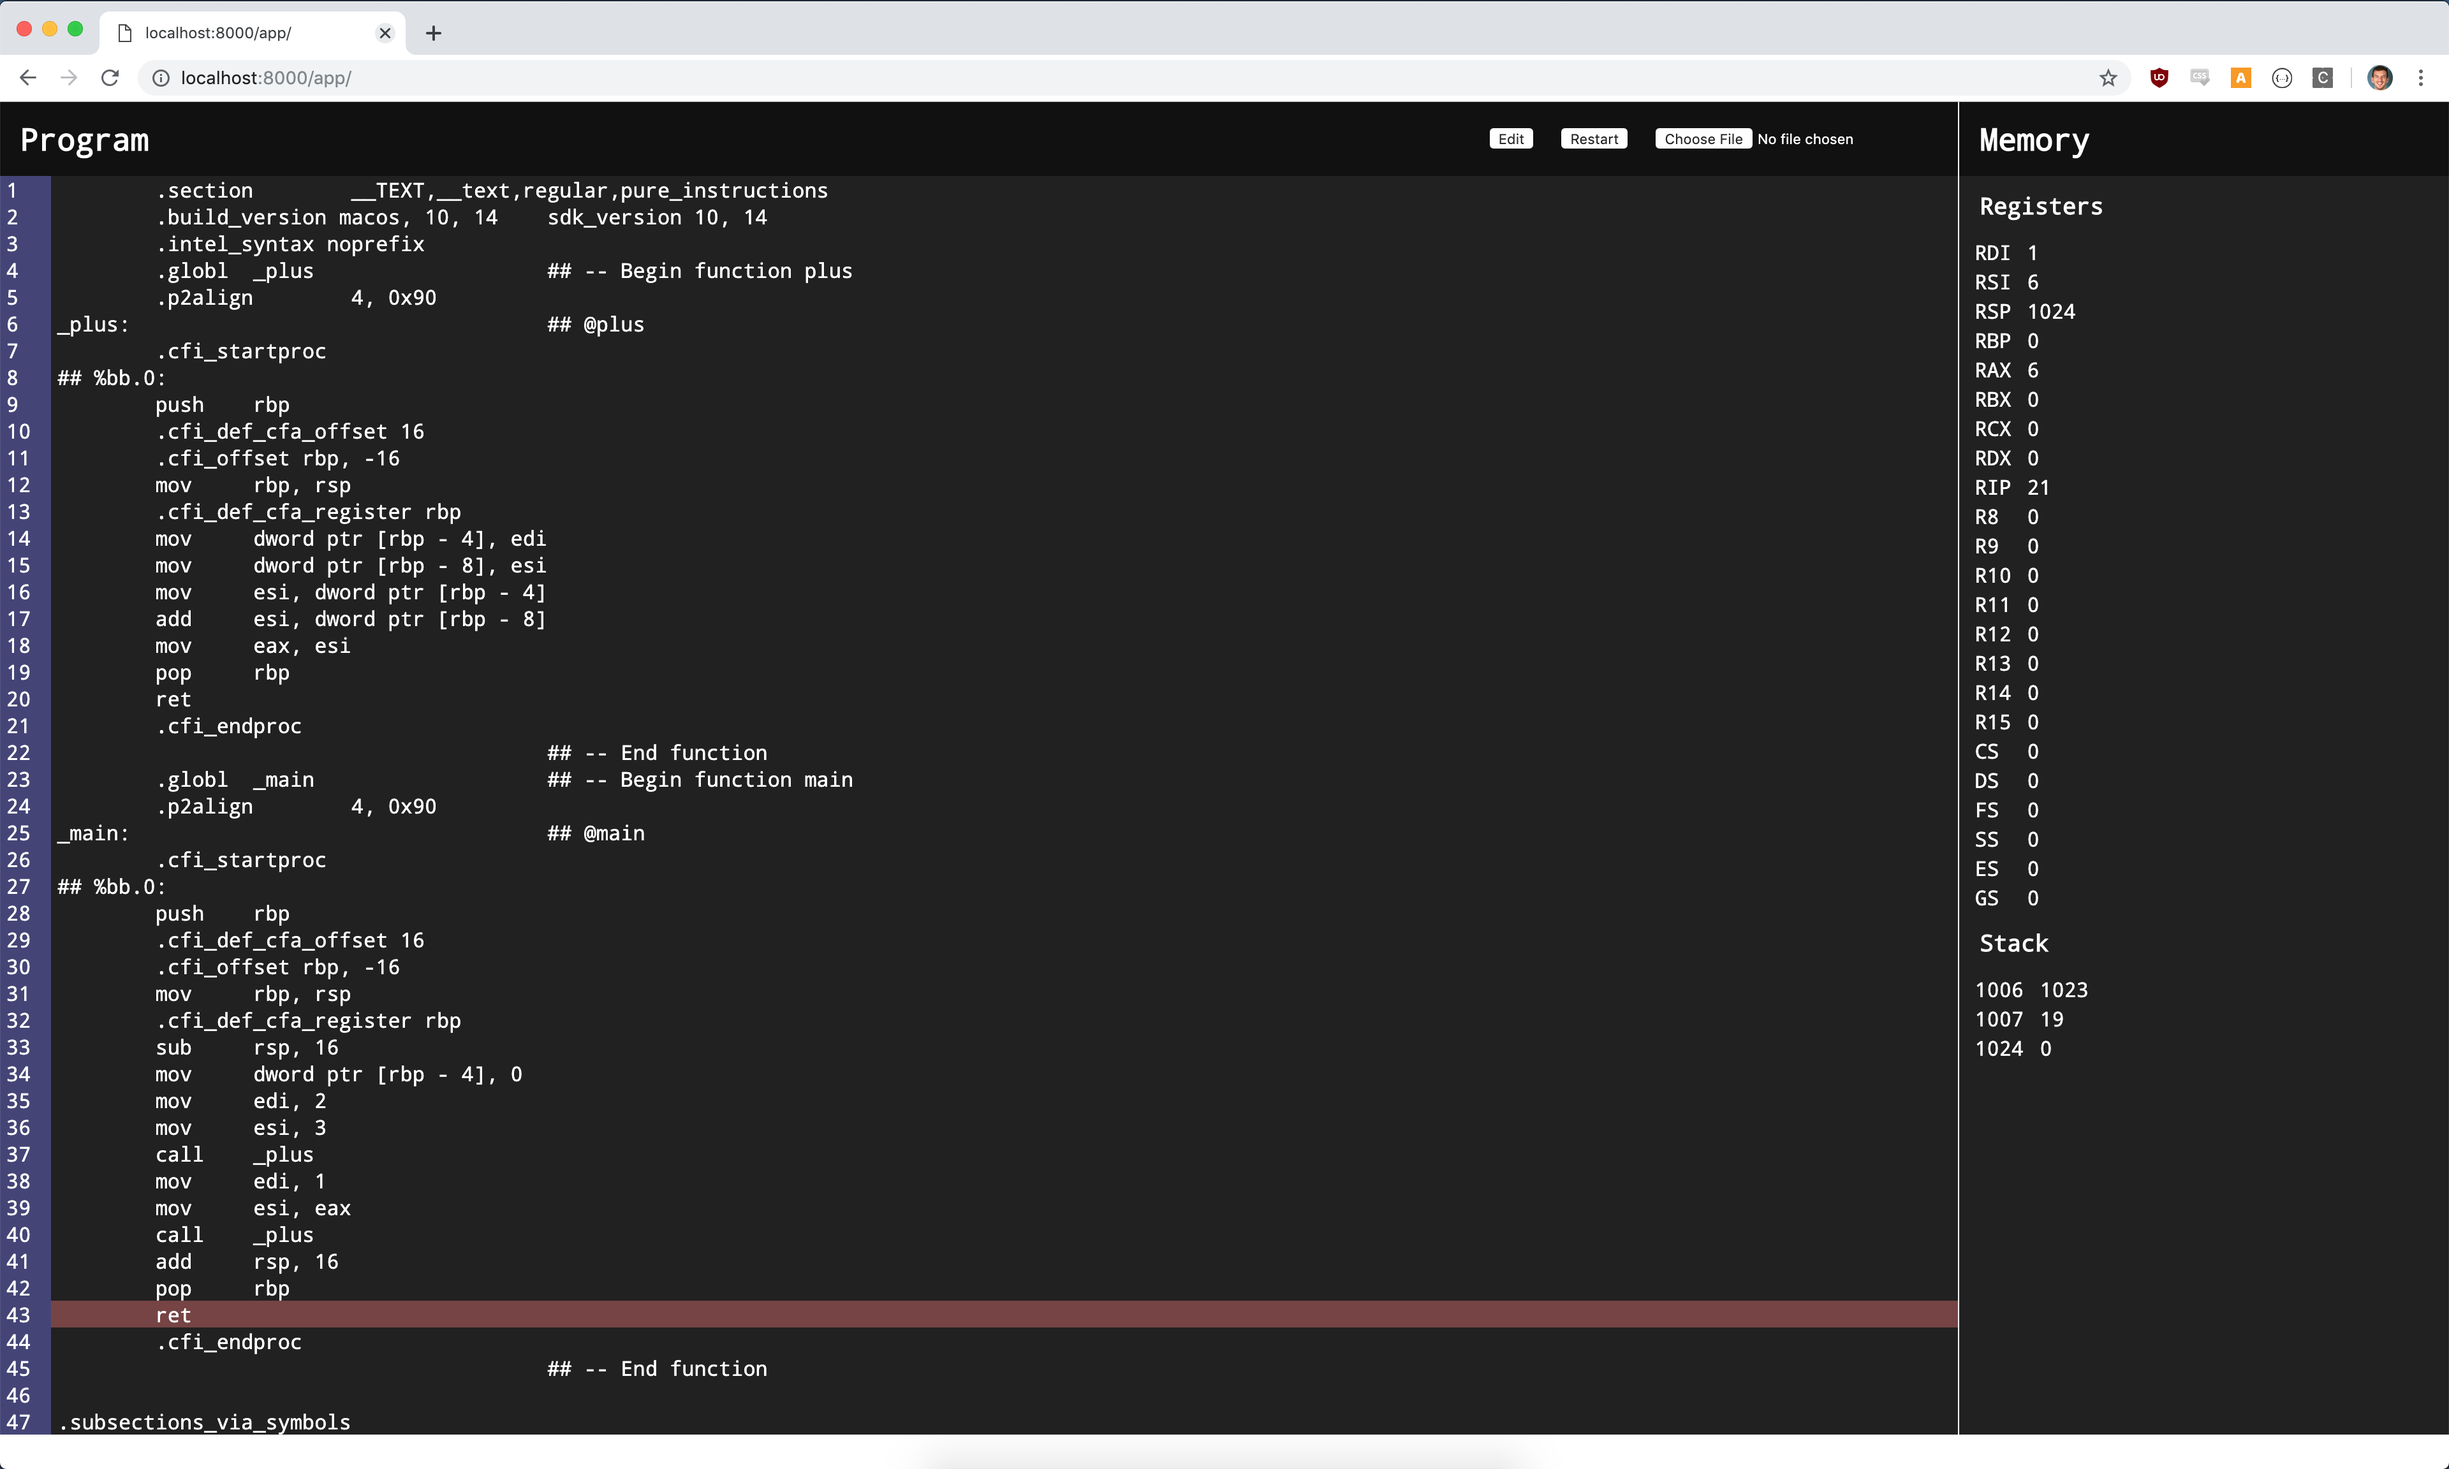
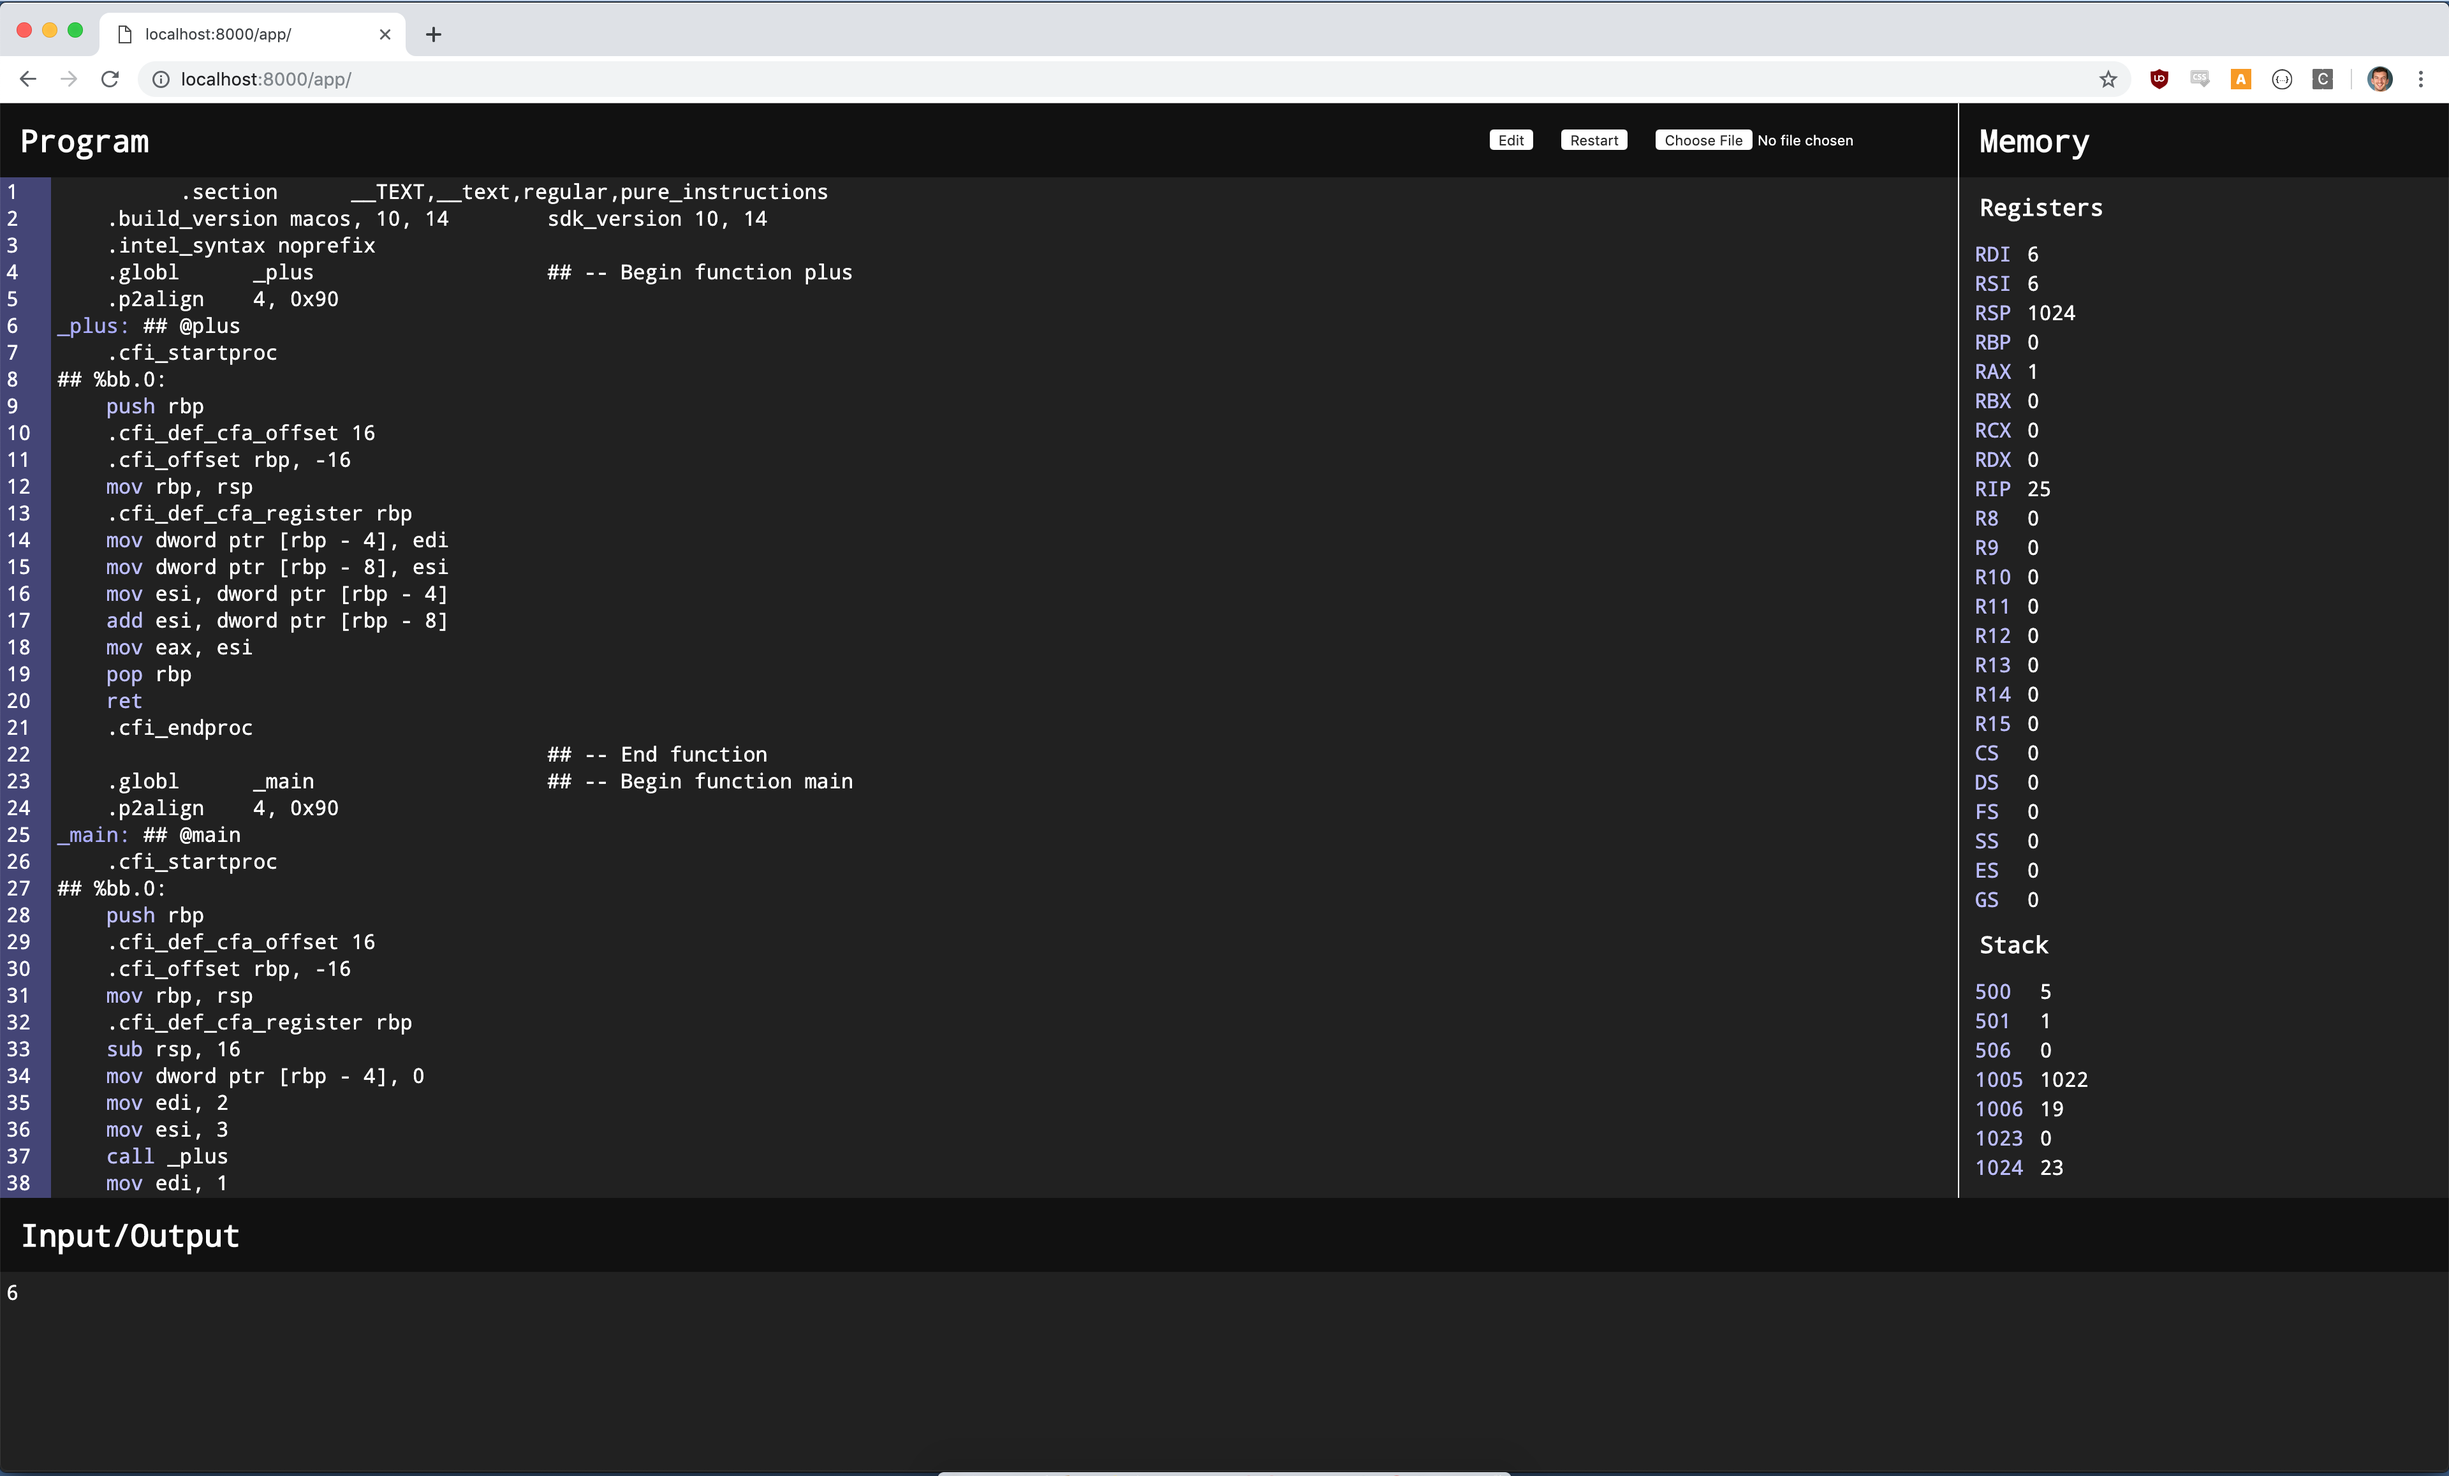
Add exit/output support to app

diff --git a/app/app.js b/app/app.js
@@ -1,3 +1,10 @@
+const START_STUB = `_start:
+	CALL _main
+
+	MOV RDI, RAX
+	MOV RAX, 1
+	SYSCALL`;
+
 const DEFAULT_PROGRAM = `      	.section	__TEXT,__text,regular,pure_instructions
 	.build_version macos, 10, 14	sdk_version 10, 14
 	.intel_syntax noprefix
@@ -46,15 +53,43 @@ _main:                                  ## @main
 
 .subsections_via_symbols`;
 
+function isInstruction(line) {
+  const t = line.trim();
+  return !(t.startsWith('#') || t.includes(':') || t.startsWith('.') || !t.length);
+}
+
 function CodeLine({ active, line, number }) {
+  if (isInstruction(line)) {
+    const { instruction, args } = parseInstruction(line);
+    return (
+      <div className={`CodeLine ${active ? 'CodeLine--active' : ''}`} id={number}>
+	<a href={`#${number}`} className="CodeLine-number">{number}</a>
+	<div className="CodeLine-line">
+	  &nbsp;&nbsp;&nbsp;&nbsp;<span className="code-builtin">{instruction}</span>{' '}
+          {args.map((arg, i) => <React.Fragment><span className="code-value">{arg}</span>{i === args.length - 1 ? '' : ', '}</React.Fragment>)}
+	</div>
+      </div>
+    );
+  }
+
+  if (line.includes(':') && !line.trim().startsWith('#')) {
+    const [label, ...rest] = line.split(':');
+    return (
+      <div className={`CodeLine ${active ? 'CodeLine--active' : ''}`}>
+	<div className="CodeLine-number">{number}</div>
+	<div className="CodeLine-line">
+	  <span className="code-function">{label}:</span>{rest.join(':')}
+	</div>
+      </div>
+    );
+  }
+
   return (
     <div className={`CodeLine ${active ? 'CodeLine--active' : ''}`}>
       <div className="CodeLine-number">{number}</div>
-      <div className="CodeLine-line">
-	<pre>{line}</pre>
-      </div>
+      <pre className="CodeLine-line">{line.replace('\t', '    ')}</pre>
     </div>
-  )
+  );
 }
 
 function Code({ activeLine, code, editing, setCode, setEditing }) {
@@ -74,6 +109,11 @@ function Code({ activeLine, code, editing, setCode, setEditing }) {
       if (e.key === 'Escape') {
 	setEditing(false);
 	return;
+      }
+
+      if (e.key === 'Enter') {
+	setCode(c => c + '\n');
+	setCursor(c => c + 1);
       }
 
       if (e.key === 'Backspace') {
@@ -111,8 +151,12 @@ function ripRealPosition(lines, rip) {
   while (true) {
     realPosition++;
 
-    const line = lines[realPosition].trim();
-    if (line.startsWith('#') || line.includes(':') || line.startsWith('.') || !line.length) {
+    if (realPosition === lines.length) {
+      return 0;
+    }
+
+    const line = lines[realPosition];
+    if (!isInstruction(line)) {
       continue;
     }
 
@@ -130,6 +174,7 @@ function App({ defaultProgram }) {
   const [resetCount, reset] = React.useState(0);
   const [code, setCode] = React.useState(defaultProgram);
   const [editing, setEditing] = React.useState(false);
+  const [output, setOutput] = React.useState('');
   const lines = code.split('\n');
 
   const ticks = React.useRef([]);
@@ -140,15 +185,27 @@ function App({ defaultProgram }) {
 
     ticks.current.pop();
   }
-  clock.onTick = () =>
-    setActiveLine(ripRealPosition(lines, process.registers.rip));
+  clock.onTick = () => {
+    const line = ripRealPosition(lines, process.registers.rip);
+    setActiveLine(line);
+    document.getElementById(line);
+  };
 
   const [activeLine, setActiveLine] = React.useState(0);
   const { process } = React.useMemo(() => {
     const res = run(code, clock);
-    setActiveLine(ripRealPosition(lines, res.process.registers.rip));
+    const line = ripRealPosition(lines, res.process.registers.rip);
+    setActiveLine(line);
+    document.getElementById(line);
     return res;
   }, [code, resetCount]);
+
+  process.exit = (result) => {
+    setOutput(p => p + result)
+  };
+  if (!process.labels._start) {
+    setCode(c => c + '\n' + START_STUB);
+  }
 
   React.useEffect(() => {
     function handler (e) {
@@ -156,6 +213,8 @@ function App({ defaultProgram }) {
 	ticks.current.push(true);
       } else if (e.key === 'e') {
 	setEditing(true);
+      } else if (e.key === 'r') {
+	
       }
     }
 
@@ -170,36 +229,42 @@ function App({ defaultProgram }) {
   };
 
   return (
-    <div class="Wrapper">
-      <div class="Instructions">
-	<header>
-	  <h1>Program</h1>
-	  <button className="mr-2" type="button" onClick={() => setEditing(editing => !editing)}>{editing ? 'Save' : 'Edit'}</button>
-	  <button className="mr-2" type="button" onClick={() => reset(i => i + 1)}>Restart</button>
-	  <input type="file" onChange={readFile} />
-	</header>
-	<Code
-	  editing={editing}
-	  setEditing={setEditing}
-	  activeLine={activeLine}
-	  code={code}
-	  setCode={(value) => (setCode(value), reset(i => i + 1))}
-	/>
+    <div className="Page">
+      <div class="Wrapper">
+	<div class="Instructions">
+	  <header>
+	    <h1>Program</h1>
+	    <button className="mr-2" type="button" onClick={() => setEditing(editing => !editing)}>{editing ? 'Save' : 'Edit'}</button>
+	    <button className="mr-2" type="button" onClick={() => (reset(i => i + 1), setOutput(''))}>Restart</button>
+	    <input type="file" onChange={readFile} />
+	  </header>
+	  <Code
+	    editing={editing}
+	    setEditing={setEditing}
+	    activeLine={activeLine}
+	    code={code}
+	    setCode={(value) => (setCode(value), reset(i => i + 1))}
+	  />
+	</div>
+	<div class="Memory">
+	  <h1>Memory</h1>
+	  <h3>Registers</h3>
+	  <table>
+	    {Object.keys(process.registers).map((reg) => {
+	       return <tr key={reg}><td className="code-builtin">{reg.toUpperCase()}</td><td>{process.registers[reg]}</td></tr>;
+	    })}
+	  </table>
+	  <h3>Stack</h3>
+	  <table>
+	    {process.memory.map((value, address) => {
+	       return <tr key={address}><td className="code-builtin">{address}</td><td>{value}</td></tr>;
+	    })}
+	  </table>
+	</div>
       </div>
-      <div class="Memory">
-	<h1>Memory</h1>
-	<h3>Registers</h3>
-	<table>
-	  {Object.keys(process.registers).map((reg) => {
-	     return <tr key={reg}><td>{reg.toUpperCase()}</td><td>{process.registers[reg]}</td></tr>;
-	  })}
-	</table>
-	<h3>Stack</h3>
-	<table>
-	  {process.memory.map((value, address) => {
-	     return <tr key={address}><td>{address}</td><td>{value}</td></tr>;
-	  })}
-	</table>
+      <div className="Footer">
+	<h1>Input/Output</h1>
+	<pre className="Footer-output">{output}</pre>
       </div>
     </div>
   );

diff --git a/emulator/x86e.js b/emulator/x86e.js
@@ -10,7 +10,14 @@ const BIT32_REGISTERS = [
 ];
 
 const SYSCALLS = {
-  EXIT: 1,
+  EXIT: {
+    LINUX: 1,
+    DARWIN: 0x2000001,
+  },
+  WRITE: {
+    LINUX: 4,
+    DARWIN: 0x2000004,
+  },
 };
 
 function parseLabel(line) {
@@ -156,13 +163,14 @@ function interpretValue(process, valueRaw, isLValue) {
 }
 
 function interpretSyscall(process) {
-  if (syscallId === SYSCALLS.EXIT) {
+  if (process.registers.rax === SYSCALLS.EXIT[process.kernel]) {
+    process.done = true;
     process.exit(process.registers.rdi);
   }
 }
 
 async function interpret(process, clock) {
-  while (process.registers.rip < process.instructions.length) {
+  while (process.registers.rip < process.instructions.length && !process.done) {
     await clock();
 
     const { instruction, args } = process.instructions[process.registers.rip];
@@ -240,18 +248,19 @@ async function interpret(process, clock) {
   }
 }
 
-function run(code, clock) {
+function run(code, clock, kernel = 'LINUX') {
   const memory = new Array(1024);
   const { directives, instructions, labels } = parse(code);
   const process = {
     directives,
     instructions,
     labels,
+    kernel,
     registers: REGISTERS.reduce((rs, r) => ({ ...rs, [r]: 0 }), {}),
     memory,
   };
 
-  process.registers.rip = labels._main;
+  process.registers.rip = labels._start;
   process.registers.rsp = process.memory.length;
 
   const done = interpret(process, clock);

diff --git a/app/style.css b/app/style.css
@@ -6,6 +6,11 @@ h1 { font-family: "Droid Sans Mono"; font-size: 24px; font-style: normal; font-v
     --padding: 5px;
 }
 
+html, body {
+    width: 100%;
+    height: 100%;
+}
+
 body {
     margin: 0;
     padding: 0;
@@ -49,10 +54,13 @@ pre {
     background: #222;
     color: white;
     display: flex;
+    height: 80%;
+    overflow-y: hidden;
 }
 
 .Instructions {
     width: 80%;
+    overflow-y: auto;
 }
 
 .Instructions h1 {
@@ -60,6 +68,7 @@ pre {
 }
 
 .Memory {
+    overflow-y: auto;
     border-left: 1px solid white;
     width: 20%;
 }
@@ -74,6 +83,8 @@ pre {
 }
 
 .CodeLine .CodeLine-number {
+    text-decoration: none !important;
+    color: white !important;
     background: #447;
     padding: 0 var(--padding);
     width: 30px;
@@ -90,4 +101,21 @@ pre {
 
 .CodeLine .CodeLine-line:hover {
     background: #474;
+}
+
+.code-builtin {
+    color: #bbf;
+}
+
+.code-function {
+    color: #aaf;
+}
+
+.Footer {
+    height: 20%;
+    background: #222;
+}
+
+.Footer .Footer-output {
+    padding: var(--padding);
 }
